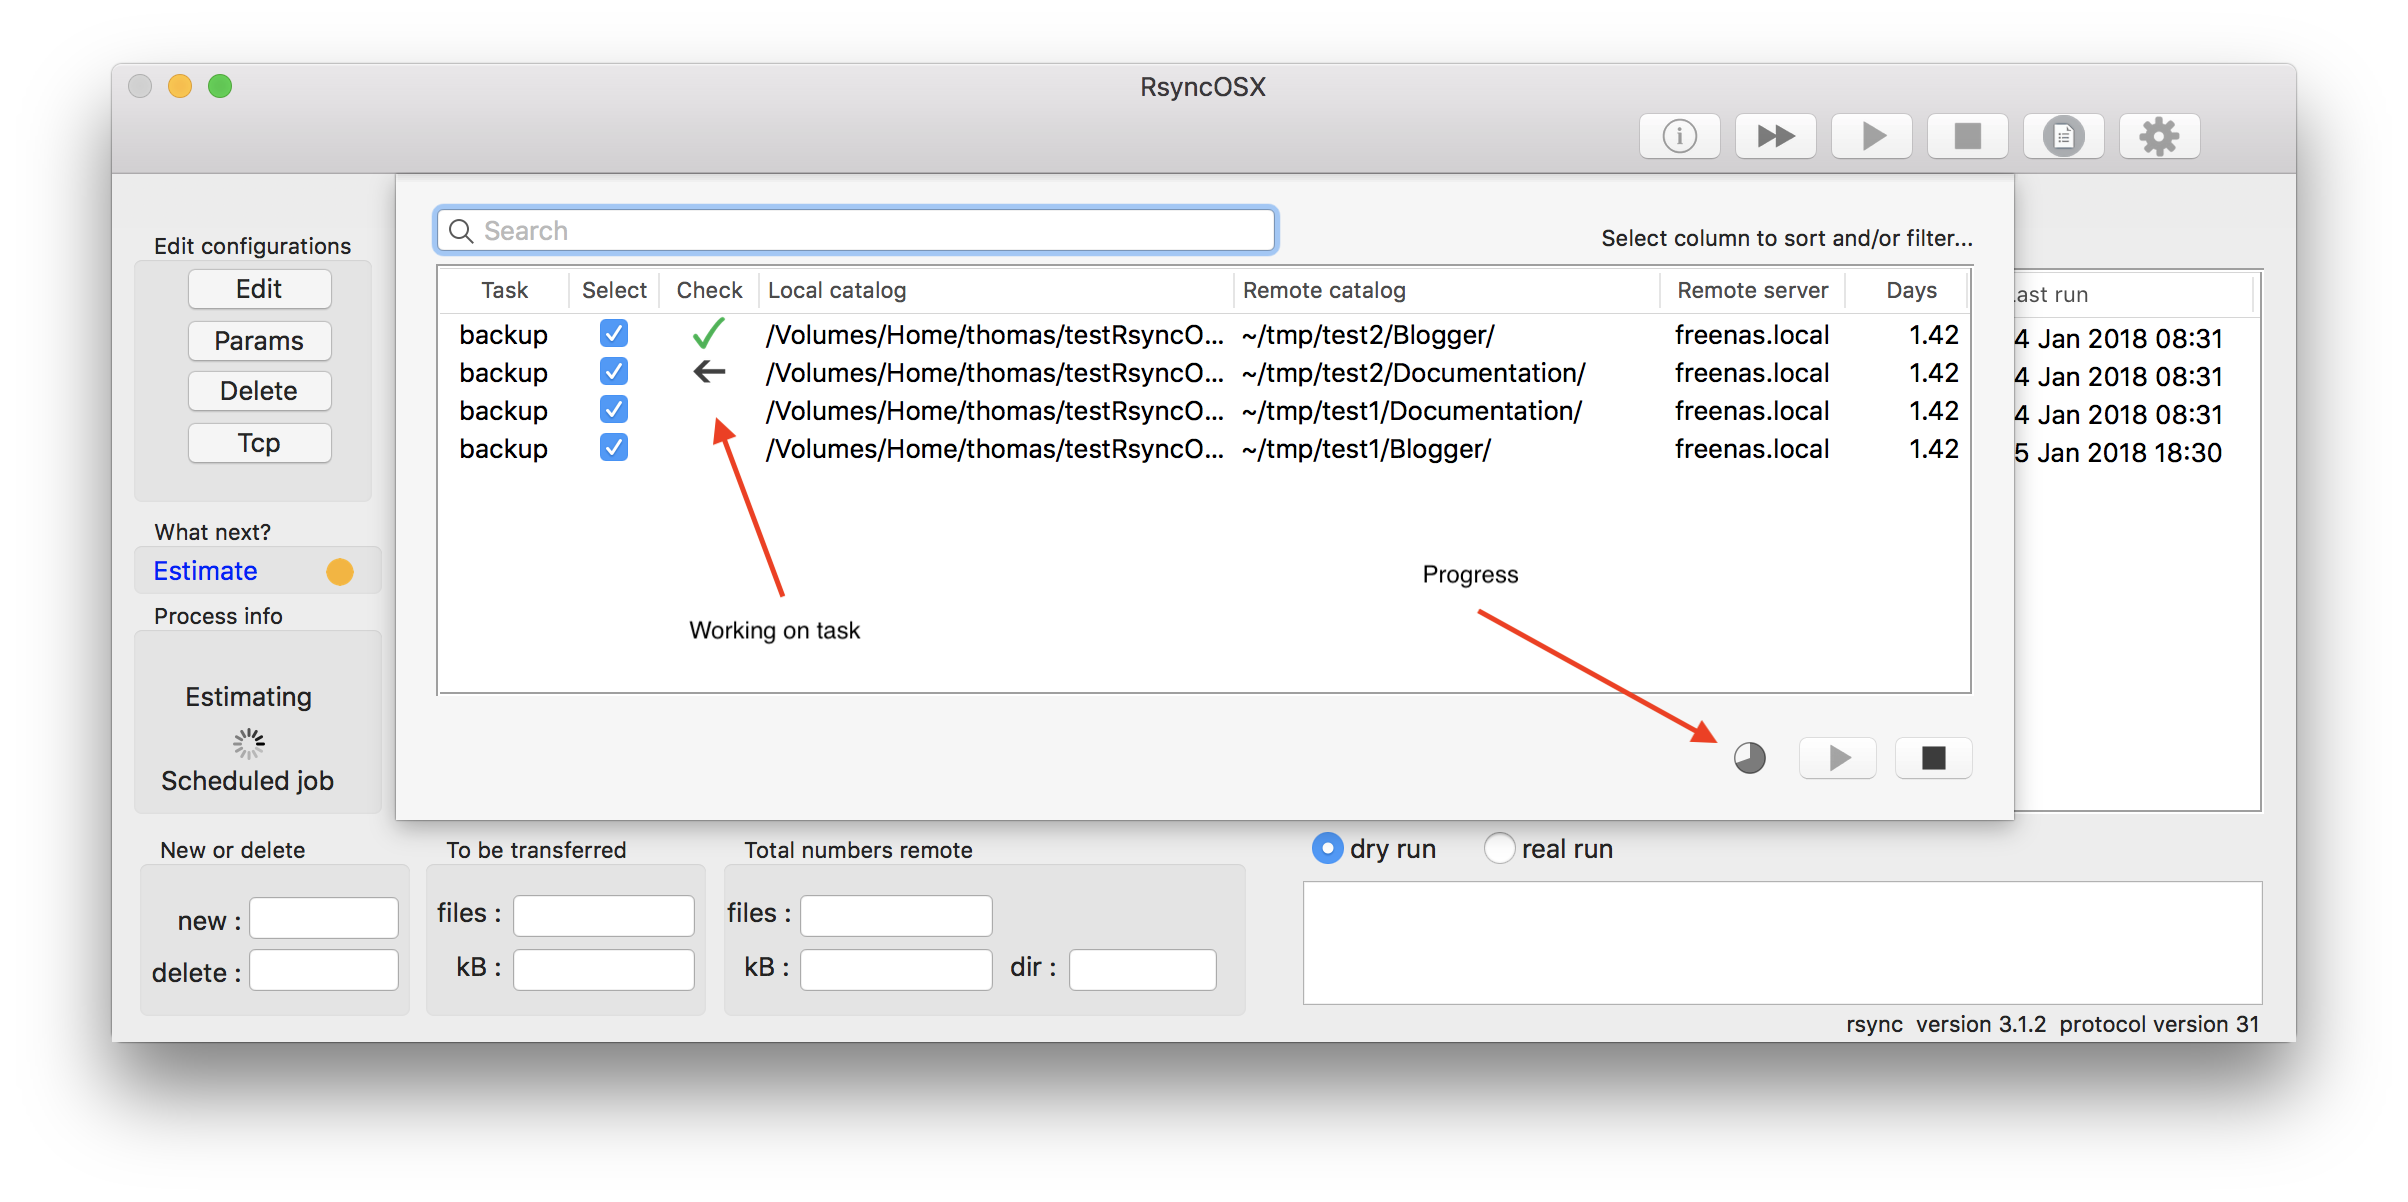
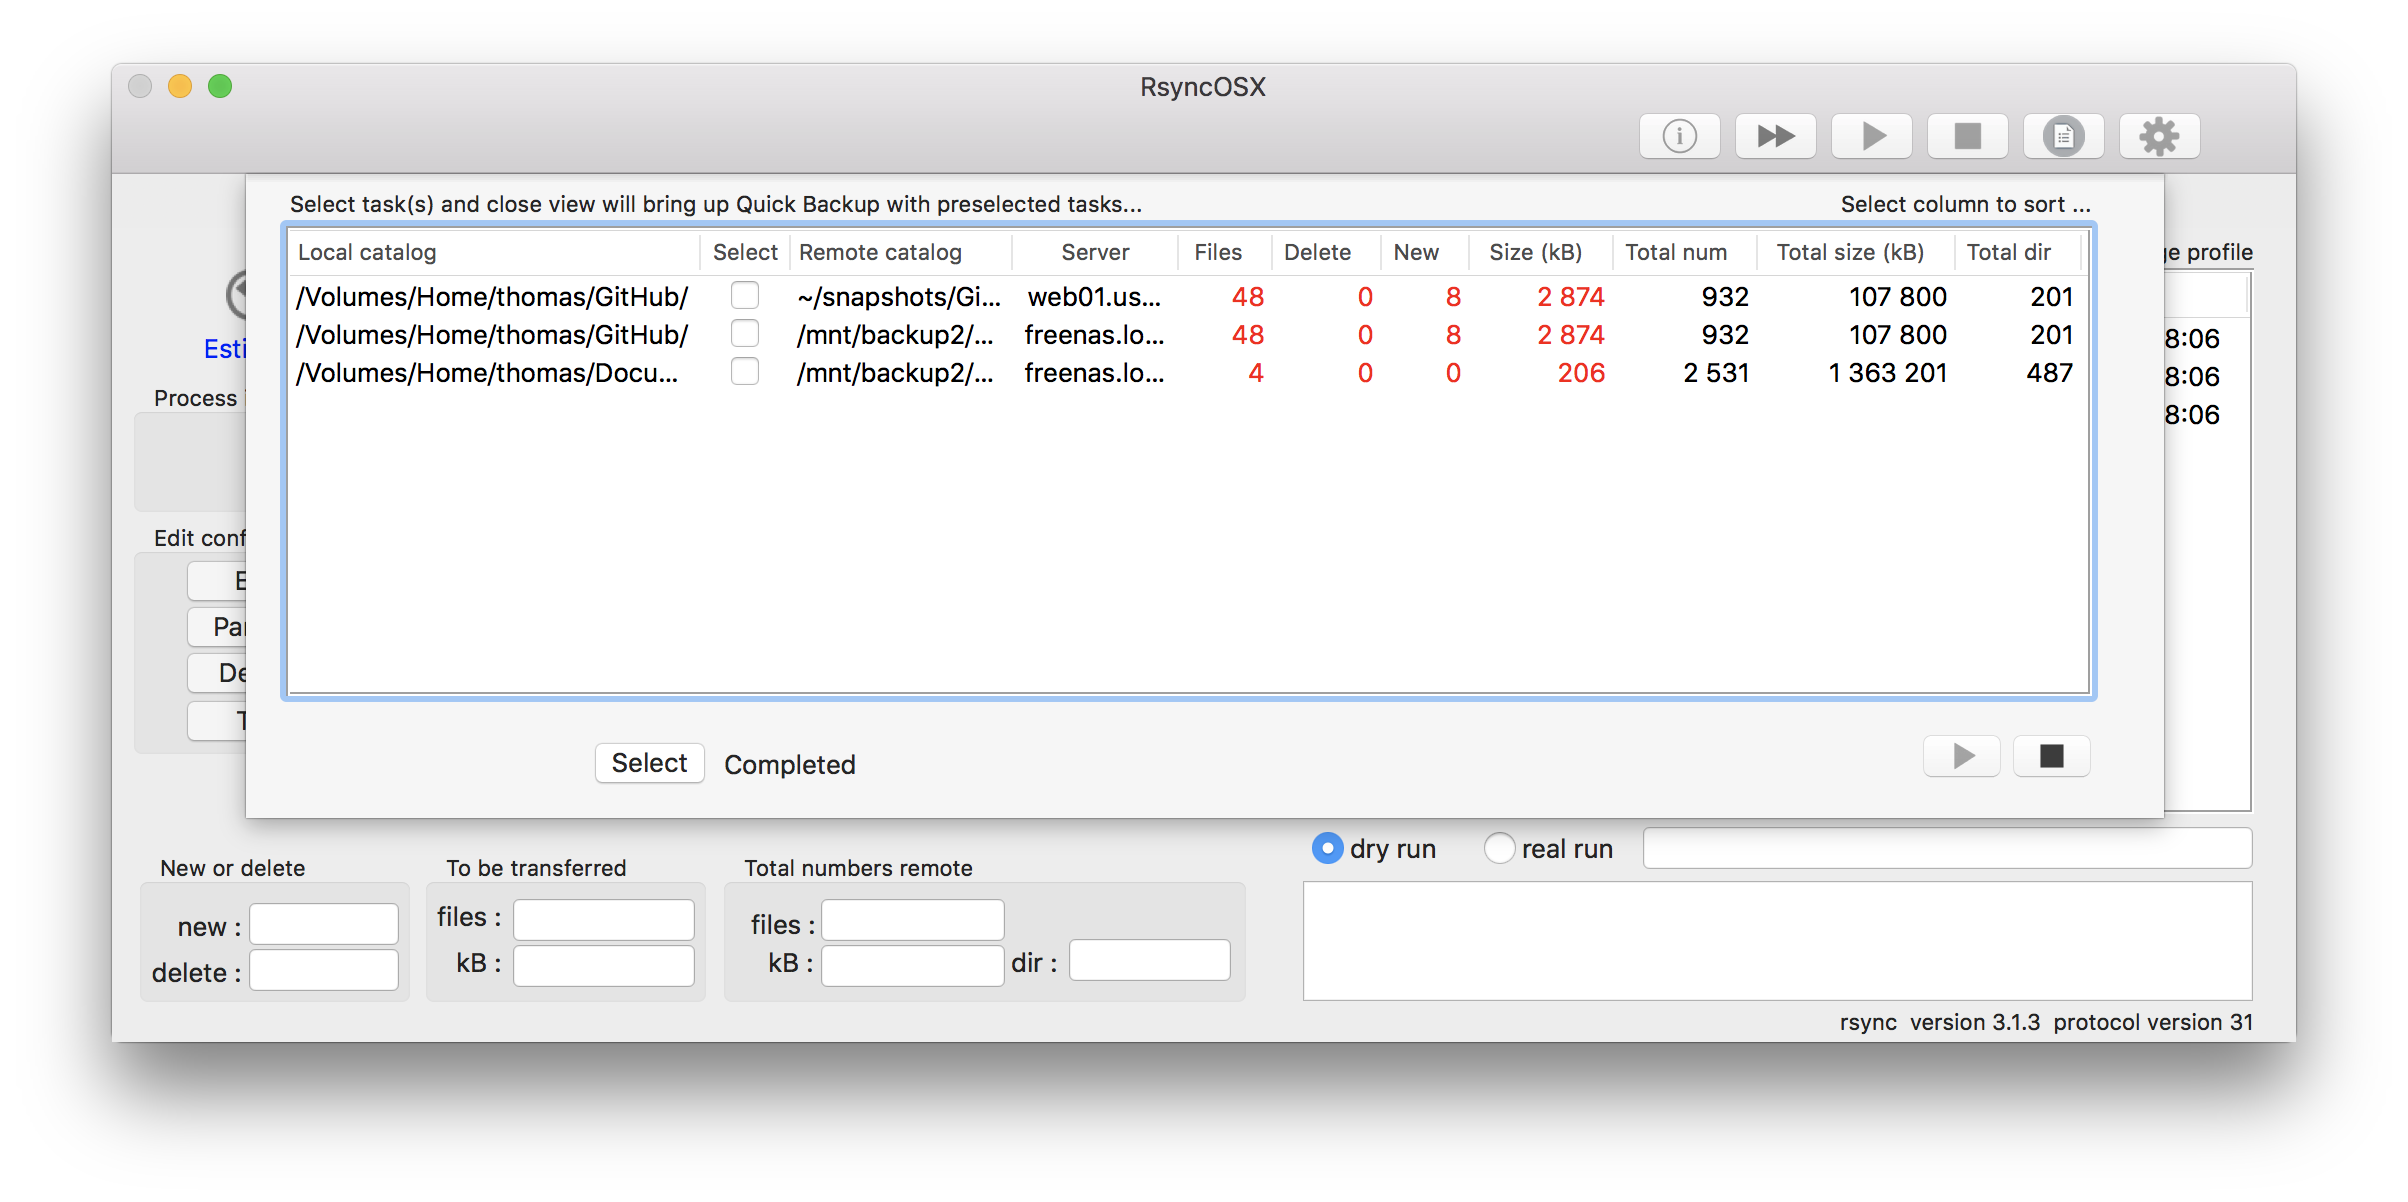
Updates

diff --git a/_posts/2018-04-11-Intro.md b/_posts/2018-04-11-Intro.md
@@ -27,7 +27,7 @@ The <span style="color:red">red rows</span> indicates no connection to remote se
 
 ## How to execute any kind of task
 
-There are **six** ways to execute tasks, `backup` and `snapshot` tasks only:
+There are **seven** ways to execute tasks, `backup` and `snapshot` tasks only:
 
 (1) single task, a double click on a row executes first a test run (`--dry-run`), the next double click executes the real run
 
@@ -44,6 +44,8 @@ There are **six** ways to execute tasks, `backup` and `snapshot` tasks only:
 (5) schedule a task, scheduled tasks are executed according to date and time, either once, daily or weekly
 
 (6) by combining `rclone` and `rsync` enable encrypted backups to remote servers (from version 5.3.0)
+
+(7) `⌘B` - shortcut automatic backups
 
 ### Restore files
 
@@ -72,11 +74,15 @@ See [batch task](/BatchTask) for more info.
 
 Only **backup** or **snapshot** tasks can be scheduled.
 ![](/images/RsyncOSX/master/menuapp/sched4.png)
-See [scheduled backups](ScheduleTasks) and [menu app](/Menuapp) for more info.
+See [scheduled backups](/ScheduleTasks) and [menu app](/Menuapp) for more info.
 
 ### (6) Encrypted backups
 
 By reading configurations from RcloneOSX (the GUI for `rclone`) enable [encrypted](/Encrypted) backups to remote servers.
+
+### (7) Automatic backups
+
+See [automatic backups](/Automatic).
 
 ## Snapshot tasks
 

diff --git a/_posts/2018-04-10-Quickbackup.md b/_posts/2018-04-10-Quickbackup.md
@@ -5,7 +5,8 @@ permalink: Quickbackup
 ---
 There are two options for executing quick backups, either go via the i-button or directly to quickbackup. The best way is to go via the i-button. By selecting the tasks for quickbackup within the information view (i-button), RsyncOSX picks up the estimation and uses the numbers to indicate the progress of backup.
 
-The information view. Select tasks to backup and press play button. RsyncOSX automatically opens the quick backup view and commence teh backup tasks.
+In the information view `Select` tasks to backup and press play button. RsyncOSX automatically opens the quick backup view and commence the backup tasks.
+![Main view](/images/RsyncOSX/master/quickbackup/quick1.png)
 ![Main view](/images/RsyncOSX/master/quickbackup/quick2.png)
 The backup tasks are automatically executed and the progress about each tasks is presented.
-![Main view](/images/RsyncOSX/master/quickbackup/quick1.png)
+![Main view](/images/RsyncOSX/master/quickbackup/quick3.png)

diff --git a/_posts/2018-04-10-Automatic.md b/_posts/2018-04-10-Automatic.md
@@ -1,0 +1,10 @@
+---
+layout: post
+title:  "Automatic backups"
+permalink: Automatic
+---
+The automatic feature of RsyncOSX is triggered by `⌘B` shortcut. RsyncOSX executes a `--dry-run` task for all configurations and execute a backup run for all tasks with data to be transferred. The automatic backup can be aborted at any time. The tasks to be executed is equal to tasks selected by [quick backup](/Quickbackup).
+![ssh](/images/RsyncOSX/master/automatic/automatic1.png)
+![ssh](/images/RsyncOSX/master/automatic/automatic2.png)
+
+### Remote server

diff --git a/_posts/2018-04-15-README.md b/_posts/2018-04-15-README.md
@@ -30,6 +30,7 @@ The following are documents about using RsyncOSX:
 - [logging](/Logging) execution of tasks
 - some info about [user configuration](/UserConfiguration)
 - [encrypted](/Encrypted) backups
+- [automatic](/Automatic) backups
 
 ### Passwordless logins
 
